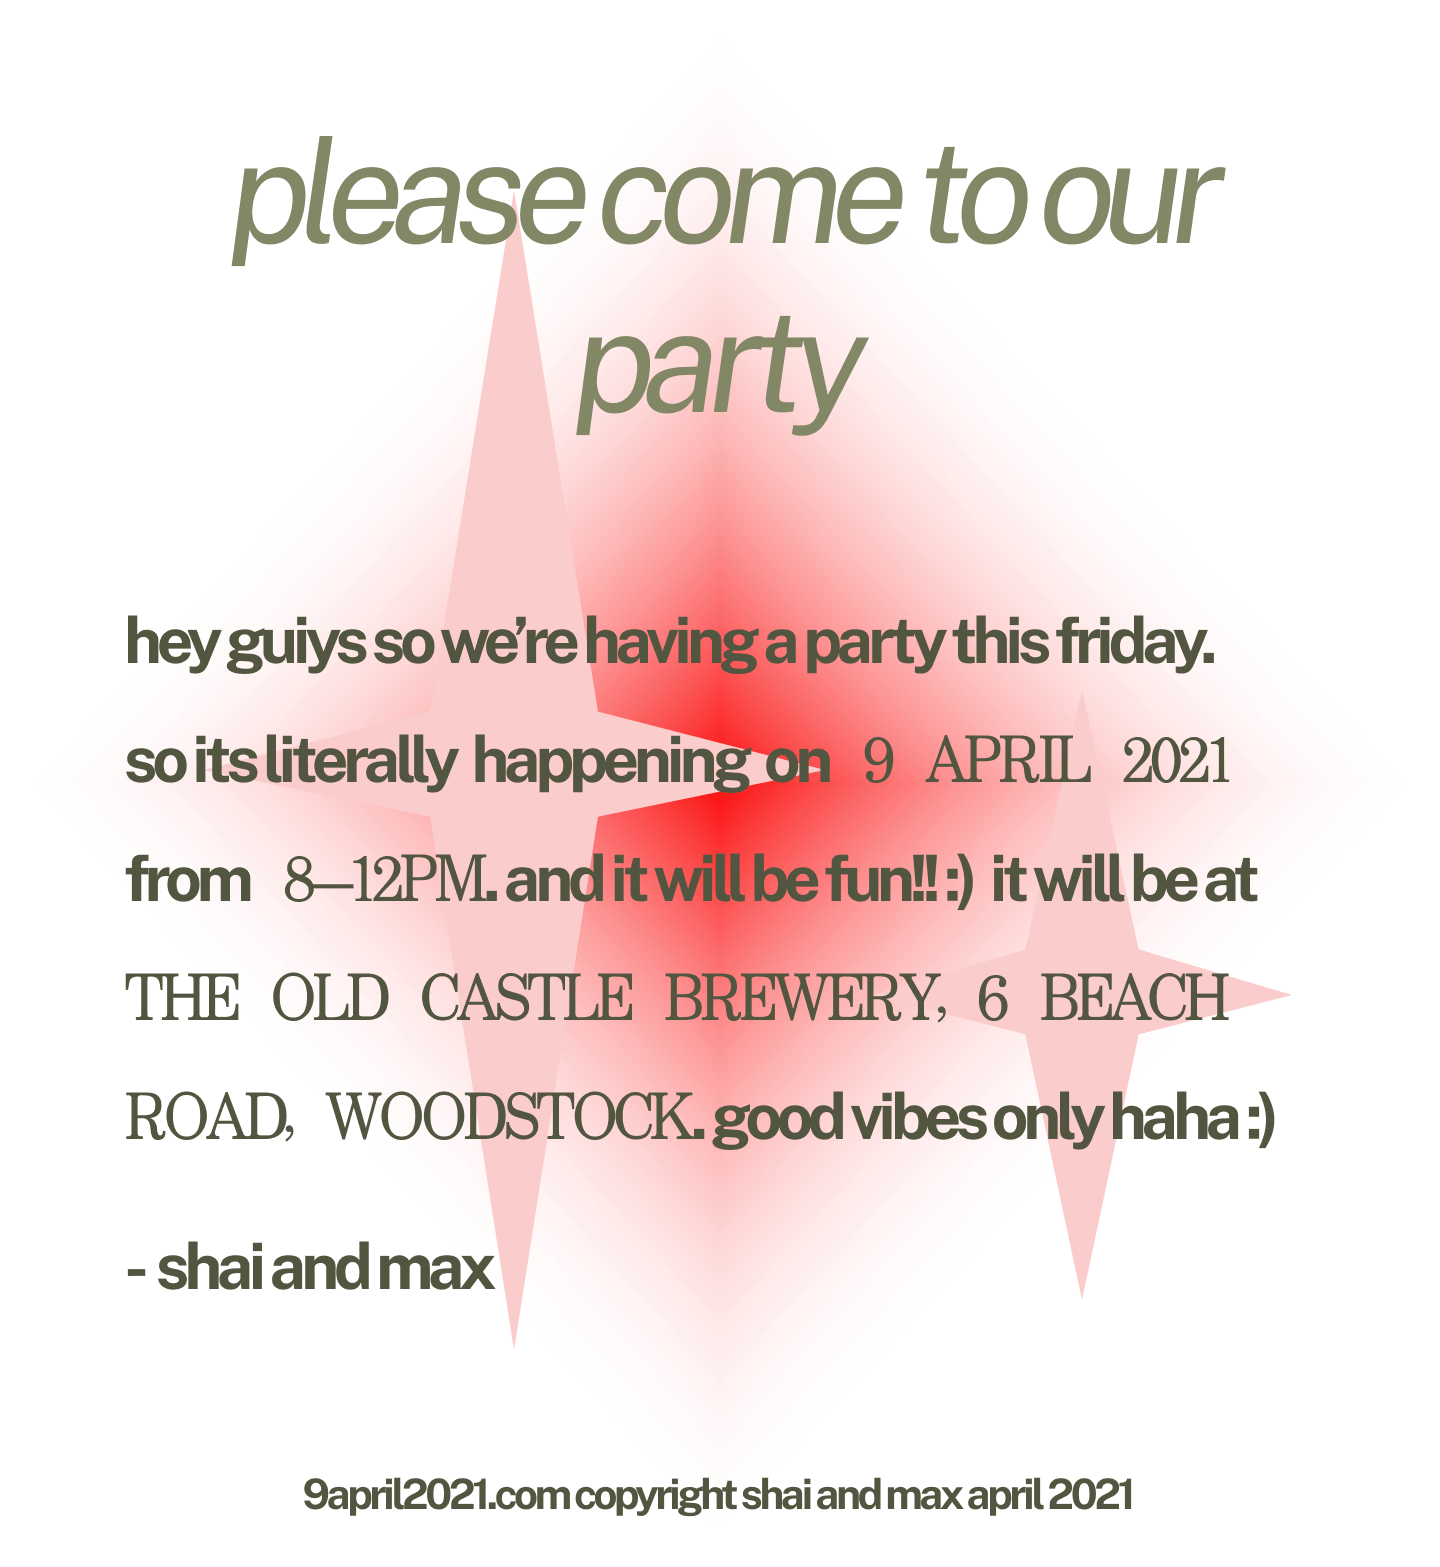
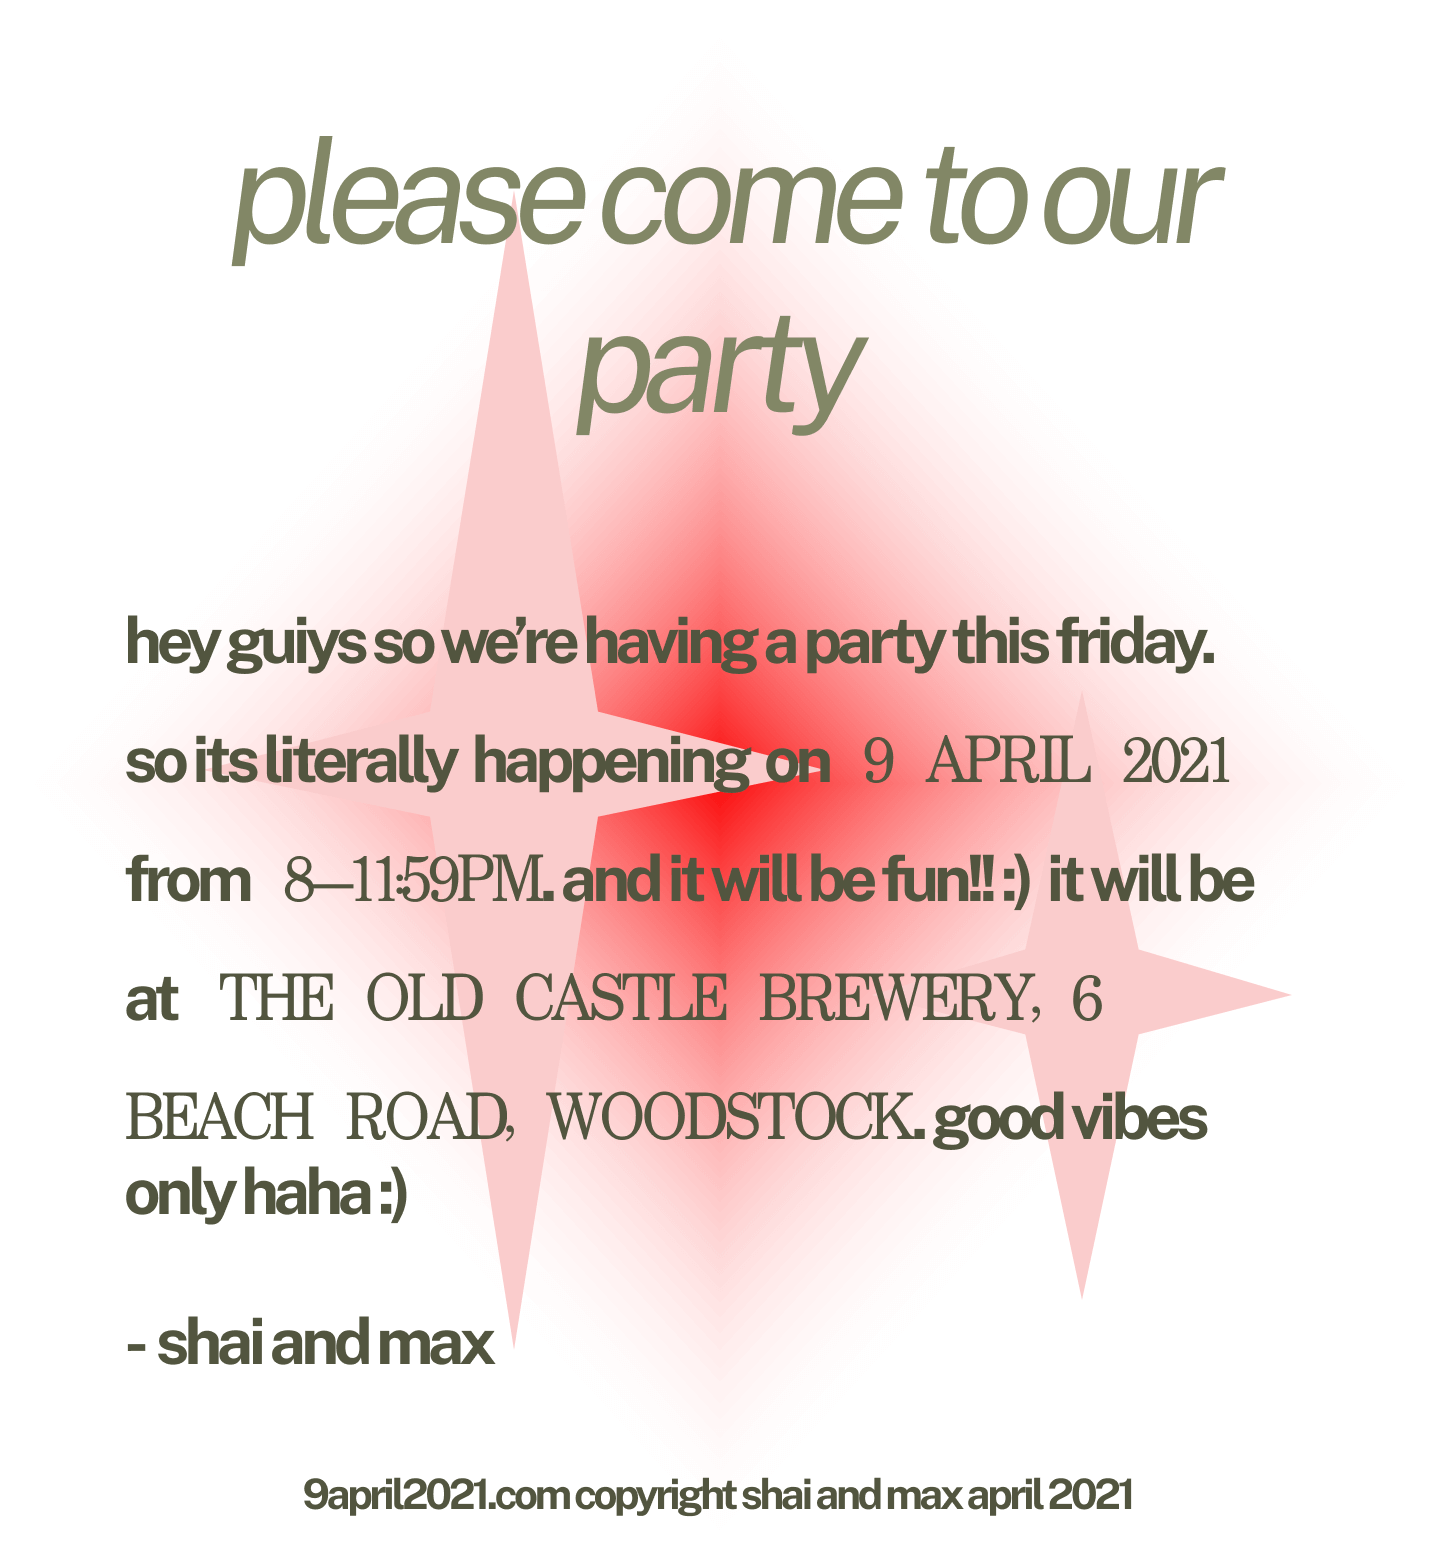
Update image to change end time

Changed region(s): [[0.0938, 0.6126, 0.9062, 0.8883], [0.25, 0.5207, 0.875, 0.582]]

diff --git a/index.html b/index.html
@@ -35,5 +35,8 @@
   </head>
   <body>
     <img src="/assets/9april2021-optimised-2.png" />
+    <ul>
+      <li>R</li>
+    </ul>
   </body>
 </html>
